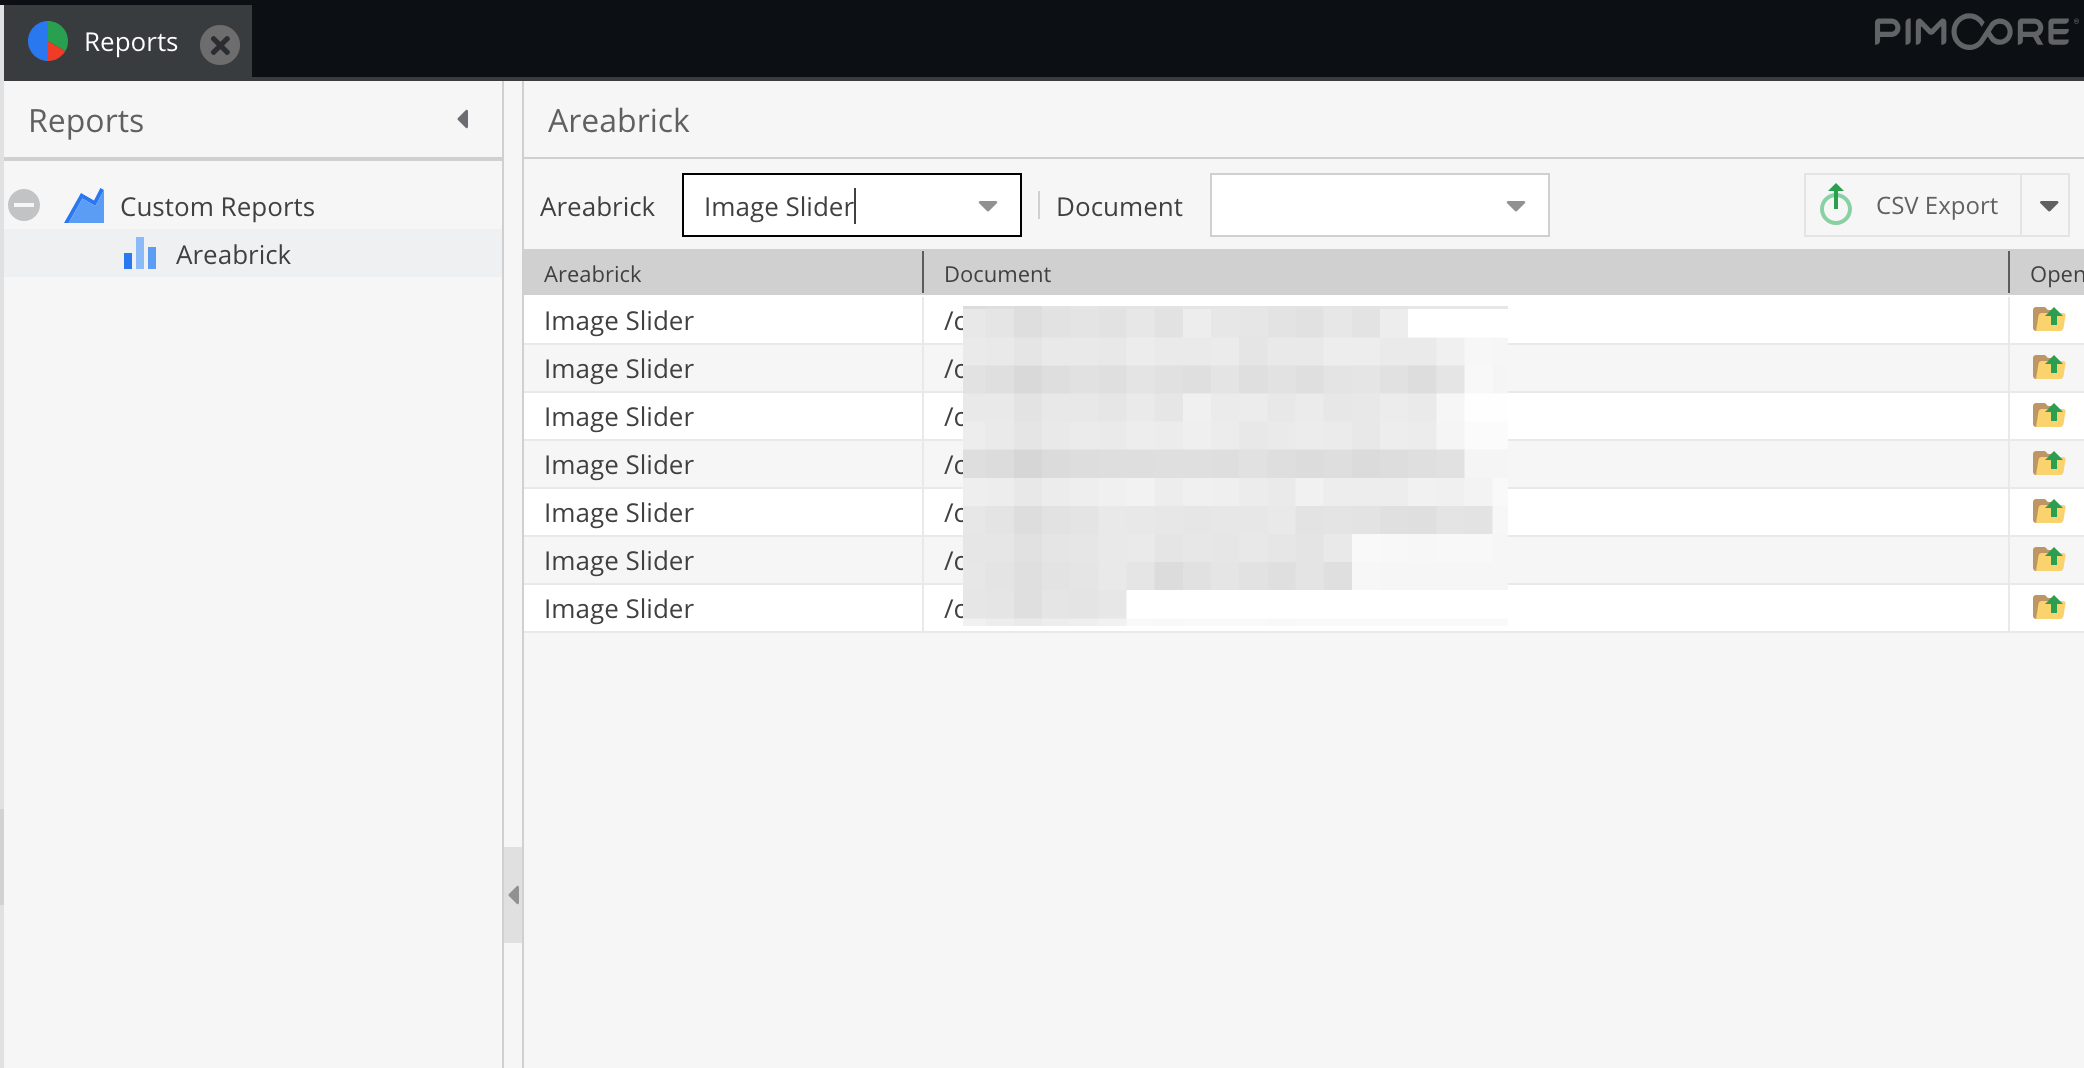
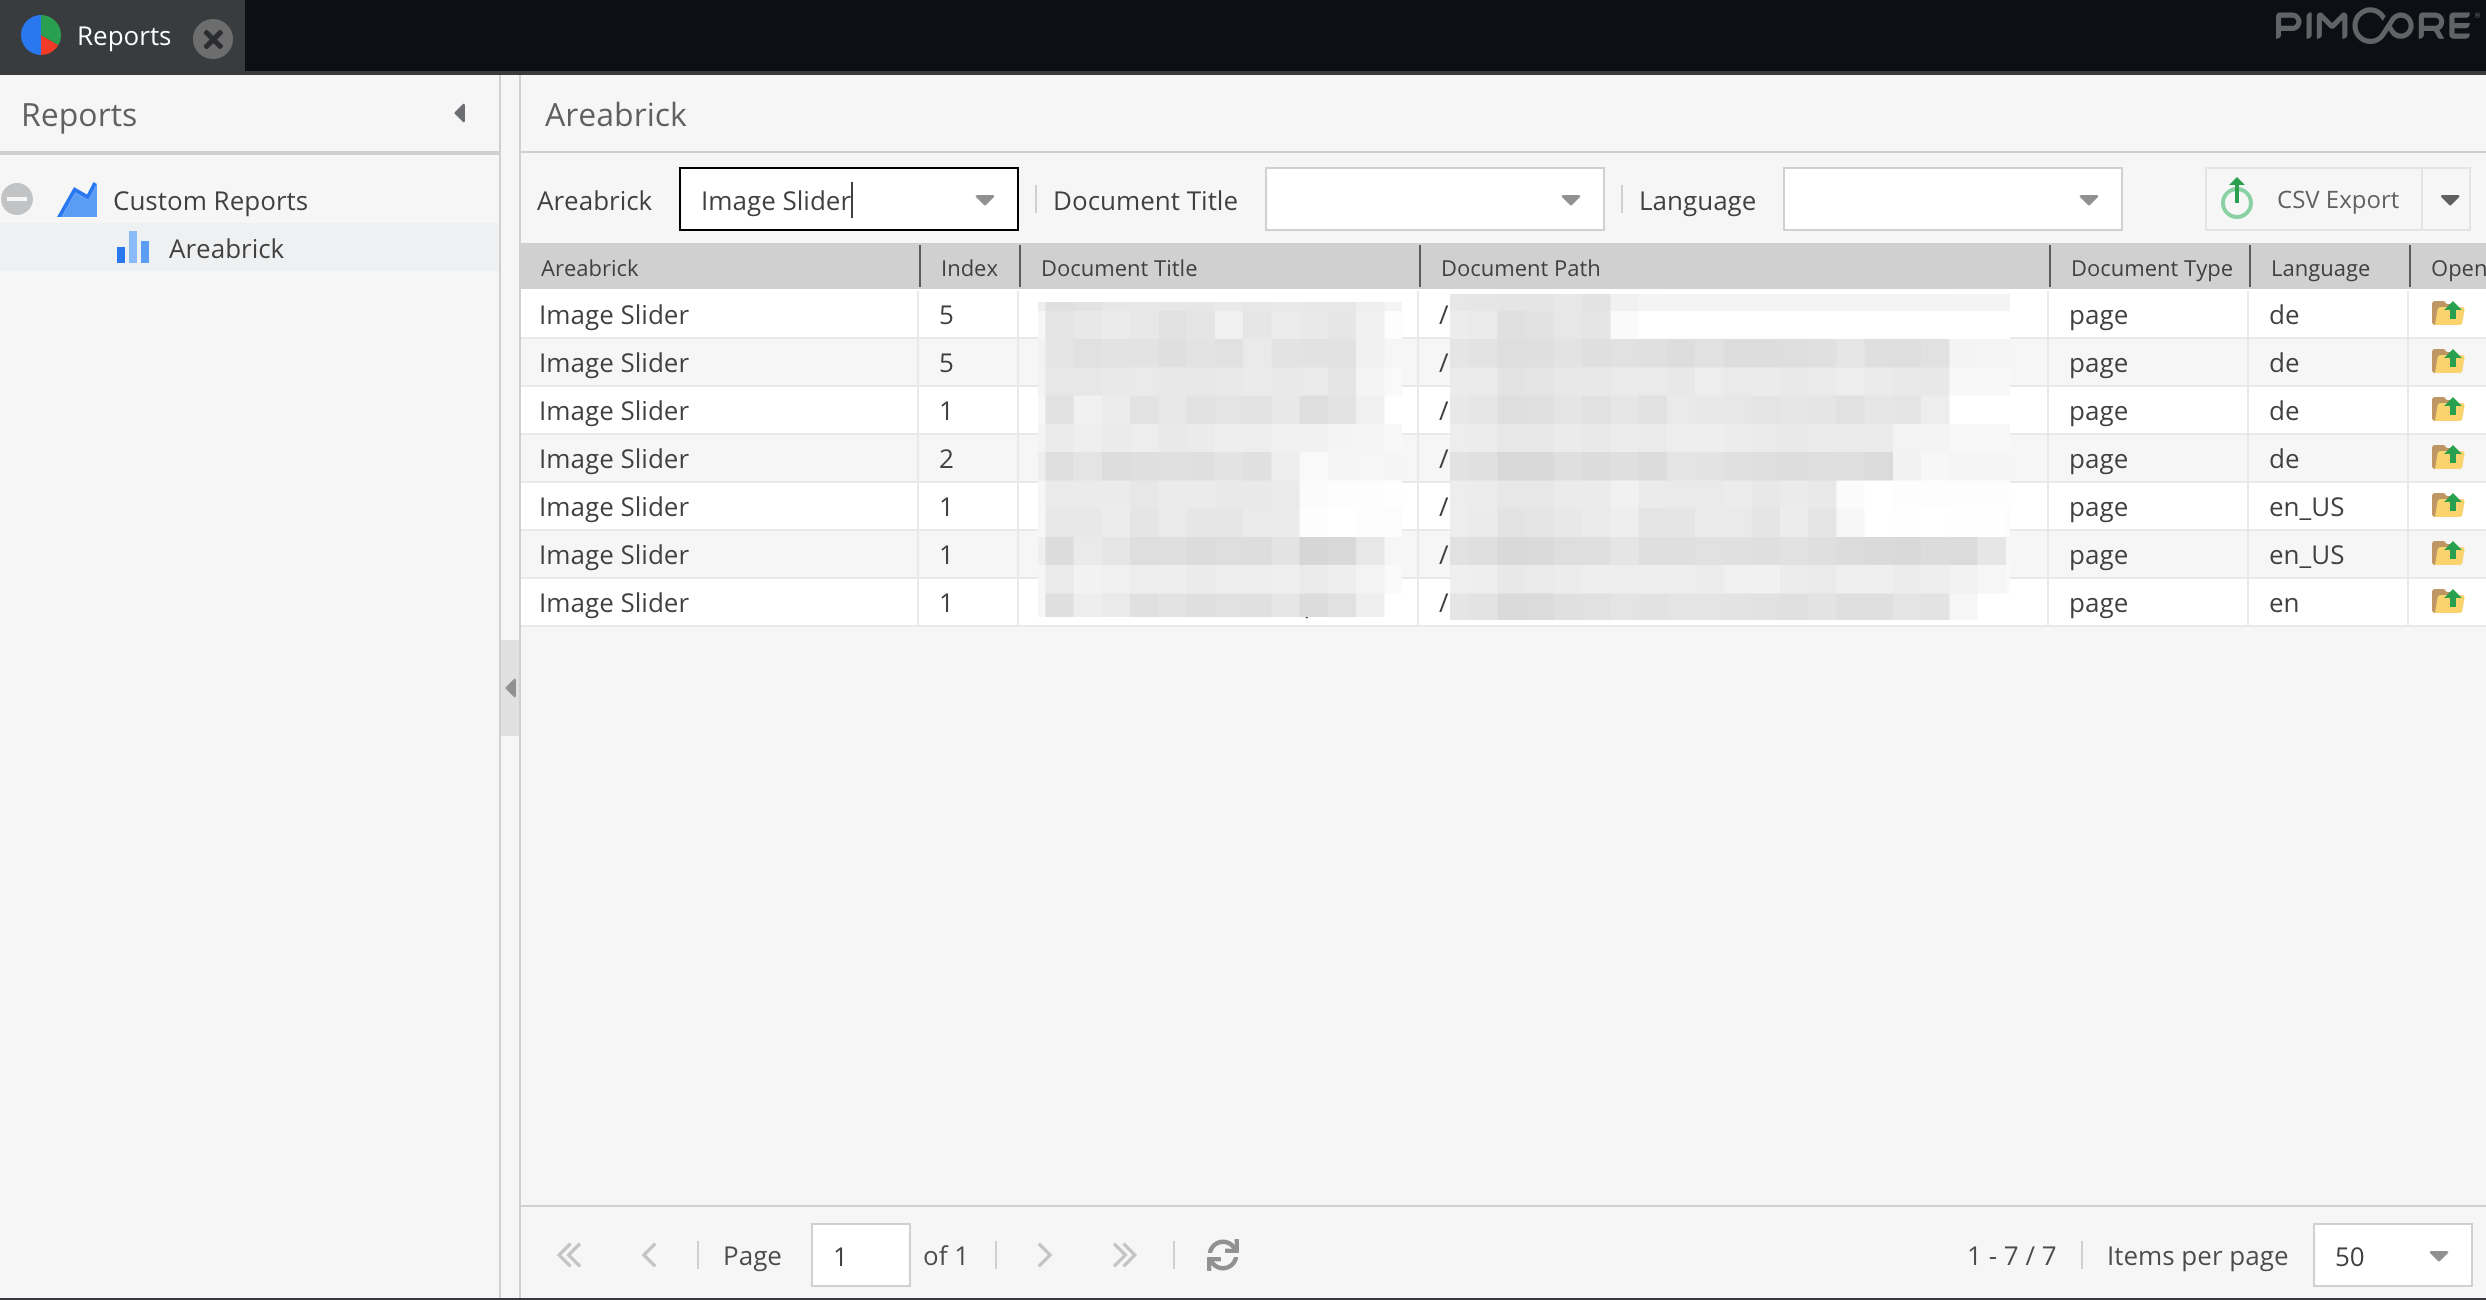
feat(): create data for report based on document listing and add further info

diff --git a/src/Command/AreabrickReportDataCommand.php b/src/Command/AreabrickReportDataCommand.php
@@ -3,9 +3,11 @@
 namespace Basilicom\AreabrickReport\Command;
 
 use Doctrine\DBAL\Connection;
-use Doctrine\DBAL\Exception;
+use Doctrine\DBAL\Exception as DbalException;
+use Exception;
 use Pimcore\Console\AbstractCommand;
 use Pimcore\Extension\Document\Areabrick\AreabrickManager;
+use Pimcore\Model\Document;
 use Symfony\Component\Console\Attribute\AsCommand;
 use Symfony\Component\Console\Command\Command;
 use Symfony\Component\Console\Input\InputInterface;
@@ -21,11 +23,18 @@ class AreabrickReportDataCommand extends AbstractCommand
 {
     private const TABLE_NAME = 'areabrick_report';
 
+    /**
+     * @var string[]
+     */
+    private array $areabricks;
+
     public function __construct(
         private readonly AreabrickManager $areabrickManager,
         private readonly Connection $connection,
     ) {
         parent::__construct();
+
+        $this->areabricks = $this->getAreabricks();
     }
 
     public function configure(): void
@@ -57,56 +66,13 @@ class AreabrickReportDataCommand extends AbstractCommand
             }
 
             $this->indexAreabricks();
-        } catch (Exception $exception) {
+        } catch (DbalException $exception) {
             $this->writeError('Error: ' . $exception->getMessage());
 
             return Command::FAILURE;
         }
 
         return Command::SUCCESS;
-    }
-
-    /**
-     * @throws Exception
-     */
-    private function indexAreabricks(): void
-    {
-        $areabricks = $this->getAreabricks();
-
-        foreach ($areabricks as $areabrickId => $areabrickName) {
-            $query = [];
-            $query[] = 'SELECT * FROM documents_editables';
-            $query[] = 'JOIN documents ON documents.id = documents_editables.documentId';
-            $query[] = 'WHERE documents_editables.type = \'areablock\'';
-            $query[] = 'and data like \'%' . sprintf('s:4:"type";s:%s:"%s";', strlen($areabrickId), $areabrickId) . '%\'';
-
-            $this->writeComment(sprintf('Index areabrick %s (%s).', $areabrickName, $areabrickId));
-
-            $result = $this->connection->executeQuery(implode(' ', $query))->fetchAllAssociative();
-            if (empty($result)) {
-                $data = [
-                    'areabrickName' => $areabrickName,
-                    'areabrickId' => $areabrickId,
-                    'documentPath' => 'not in use',
-                    'documentId' => 1,
-                ];
-                $this->connection->insert(self::TABLE_NAME, $data);
-
-                continue;
-            }
-
-            foreach ($result as $item) {
-                $data = [
-                    'areabrickName' => $areabrickName,
-                    'areabrickId' => $areabrickId,
-                    'documentPath' => $item['path'] . $item['key'],
-                    'documentId' => $item['documentId'],
-                ];
-                $this->connection->insert(self::TABLE_NAME, $data);
-            }
-        }
-
-        $this->writeInfo(sprintf('Index %s areabrick types.', count($areabricks)));
     }
 
     /**
@@ -122,8 +88,13 @@ class AreabrickReportDataCommand extends AbstractCommand
         return $data;
     }
 
+    private function getAreabrickName(string $id): string
+    {
+        return $this->areabricks[$id] ?? '';
+    }
+
     /**
-     * @throws Exception
+     * @throws DbalException
      */
     private function checkIfTableExists(): bool
     {
@@ -134,7 +105,7 @@ class AreabrickReportDataCommand extends AbstractCommand
     }
 
     /**
-     * @throws Exception
+     * @throws DbalException
      */
     private function dropTable(): void
     {
@@ -145,7 +116,7 @@ class AreabrickReportDataCommand extends AbstractCommand
     }
 
     /**
-     * @throws Exception
+     * @throws DbalException
      */
     private function truncateTable(): void
     {
@@ -156,7 +127,7 @@ class AreabrickReportDataCommand extends AbstractCommand
     }
 
     /**
-     * @throws Exception
+     * @throws DbalException
      */
     private function createTable(): void
     {
@@ -166,15 +137,69 @@ class AreabrickReportDataCommand extends AbstractCommand
         $createTableQuery[] = 'id int NOT NULL AUTO_INCREMENT,';
         $createTableQuery[] = 'areabrickName varchar(255) NOT NULL,';
         $createTableQuery[] = 'areabrickId varchar(255) NOT NULL,';
-        $createTableQuery[] = 'documentPath varchar(255) NOT NULL,';
+        $createTableQuery[] = 'areabrickIndex int NOT NULL,';
+        $createTableQuery[] = 'documentPathKey varchar(255) NOT NULL,';
+        $createTableQuery[] = 'documentType varchar(255) NOT NULL,';
+        $createTableQuery[] = 'documentTitle varchar(255) NOT NULL,';
+        $createTableQuery[] = 'documentLanguage varchar(10) NOT NULL,';
         $createTableQuery[] = 'documentId int NOT NULL,';
         $createTableQuery[] = 'PRIMARY KEY (id),';
         $createTableQuery[] = 'INDEX index_areabrickName (areabrickName),';
-        $createTableQuery[] = 'INDEX index_documentPath (documentPath)';
+        $createTableQuery[] = 'INDEX index_documentPathKey (documentPathKey)';
         $createTableQuery[] = ')';
 
         $this->connection->executeQuery(implode(' ', $createTableQuery));
 
         $this->writeComment('Database table "' . self::TABLE_NAME . '" was be created.');
+    }
+
+    /**
+     * @throws Exception
+     */
+    private function indexAreabricks(): void
+    {
+        $listing = Document::getList([
+            'unpublished' => true,
+            'condition' => "type IN ('page', 'snippet', 'email')",
+            'orderKey' => ['key'],
+            'order' => 'desc',
+        ]);
+
+        foreach ($listing as $document) {
+            $title = $document->getKey();
+            if (method_exists($document, 'getTitle')) {
+                $title = $document->getTitle();
+            }
+            $data = [
+                'documentId' => $document->getId(),
+                'documentType' => $document->getType(),
+                'documentTitle' => $title,
+                'documentLanguage' => $document->getProperty('language'),
+                'documentPathKey' => $document->getPath() . $document->getKey(),
+            ];
+
+            foreach ($document->getEditables() as $editable) {
+                if (!$editable instanceof Document\Editable\Areablock) {
+                    continue;
+                }
+
+                $count = 1;
+                foreach ($editable->getIndices() as $areabrick) {
+                    $name = $this->getAreabrickName($areabrick['type']);
+                    if (empty($name)) {
+                        continue;
+                    }
+
+                    $rowData = $data;
+                    $rowData['areabrickIndex'] = $count;
+                    $rowData['areabrickId'] = $areabrick['type'];
+                    $rowData['areabrickName'] = $this->getAreabrickName($areabrick['type']);
+
+                    $this->connection->insert(self::TABLE_NAME, $rowData);
+
+                    $count++;
+                }
+            }
+        }
     }
 }

diff --git a/README.md b/README.md
@@ -28,8 +28,8 @@ bin/console basilicom:report:areabrick -f true
 
 # Info
 
-Shows a report with a filter of documents and areabricks.
-Cannot be sorted or paginated.
+Shows a report with a filter of documents, areabricks and language.
+Filters can be combined.
 
 ![areabricks-report-list.png](docs/areabricks-report-list.png)
 
@@ -39,5 +39,5 @@ Filter by Areabrick
 Filter by Document
 ![areabricks-report-list-filter-document.png](docs/areabricks-report-list-filter-document.png)
 
-Filter by Areabrick and Document
-![areabricks-report-list-filter-both.png](docs/areabricks-report-list-filter-both.png)
+Filter by Language
+![areabricks-report-list-filter-language.png](docs/areabricks-report-list-filter-language.png)
